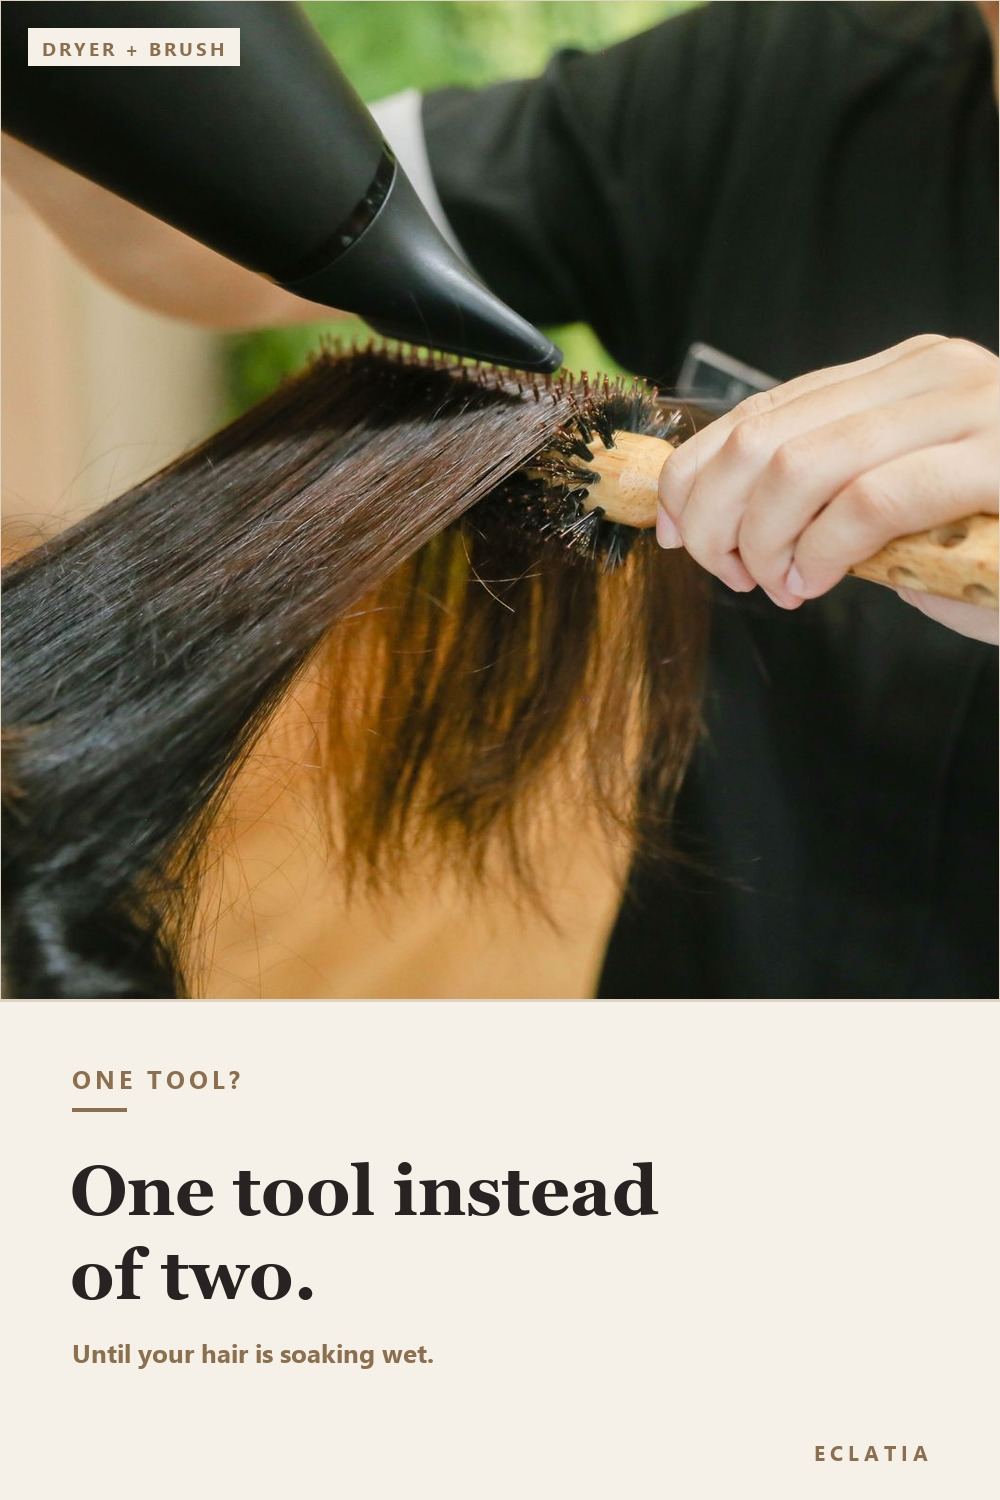
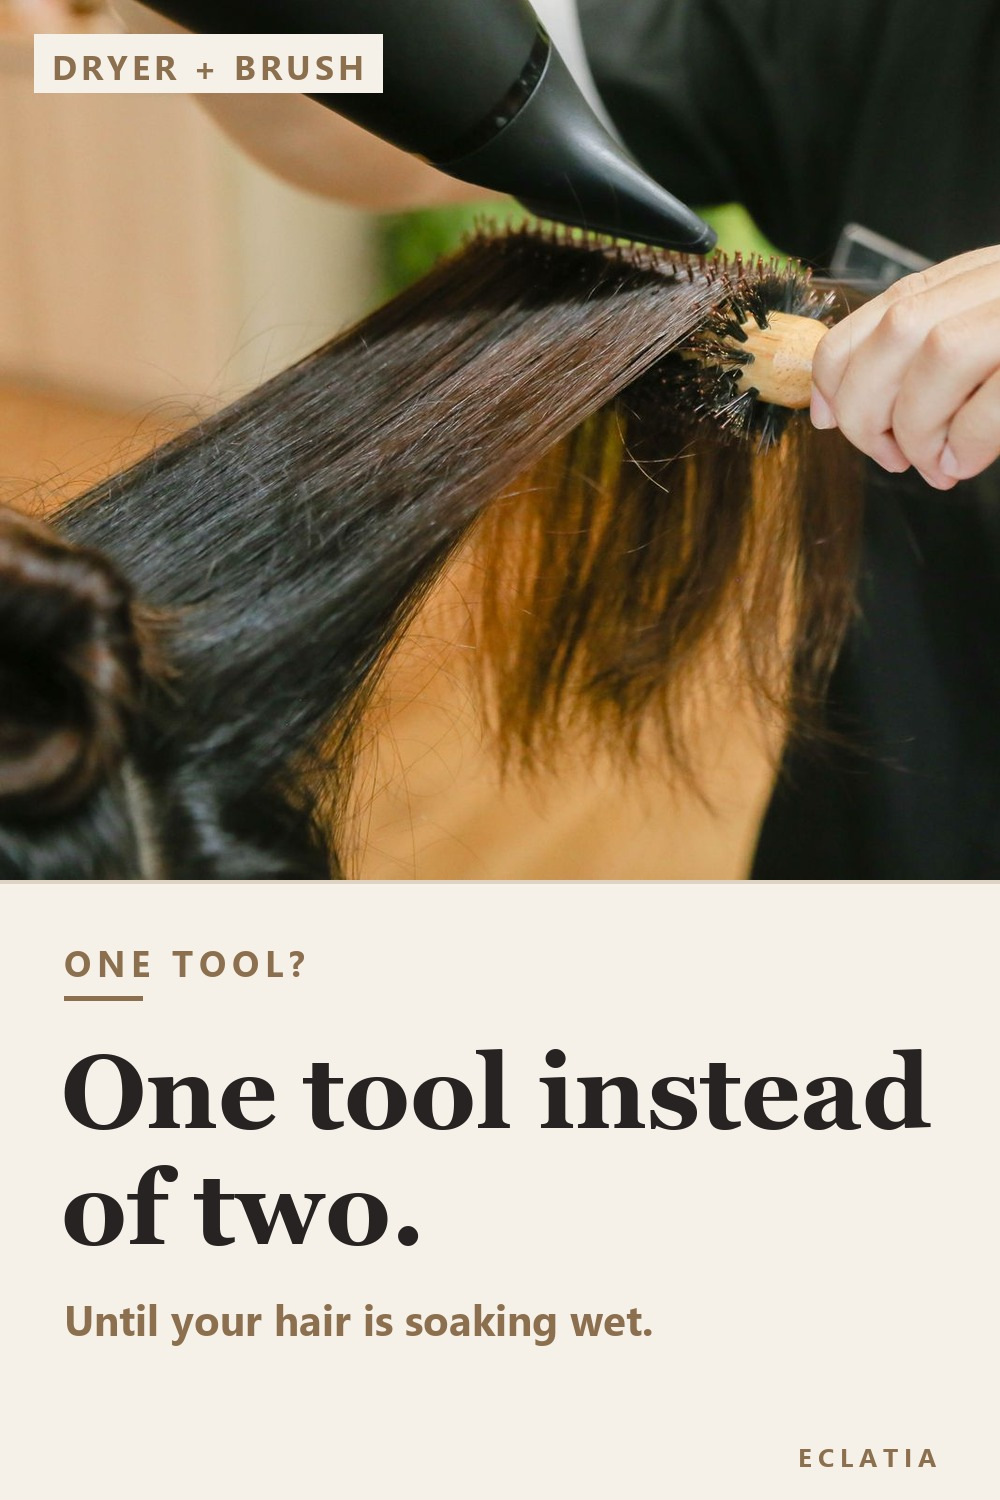
pin(P25): theme creme texte geant + script charte unifie

diff --git a/scripts/make_pins_editorial.py b/scripts/make_pins_editorial.py
@@ -1,0 +1,131 @@
+"""Charte des pins "editoriaux" : photo reelle en haut, panneau texte lisible en bas.
+
+Deux themes, meme grille :
+  creme - fond crème, Georgia Bold, kicker brun   (charte historique)
+  dark  - fond vert profond, Segoe Bold, kicker or (variante "bold")
+
+Regle nee du constat du 13/11 : l'ancienne charte composait son titre entre 25 et
+70 px sur un canvas de 1000 px. A la taille d'affichage du fil Pinterest (~236 px)
+cela donne 6 a 16 px, donc illisible. Ici le titre est calibre entre 86 et 140 px,
+le chip fait 34 px, le kicker 36 px.
+
+Photos : Pexels, licence libre, aucun logo de marque lisible.
+
+Entree (dossier temporaire) :
+  pex-3865608.jpg   femme versant une huile doree dans sa paume
+  pex-10028673.jpg  brosse ronde + sechoir dans des cheveux bruns
+
+Sortie : docs/contenus-a-valider/visuels/hair/pin-Pxx.jpg (+ .png)
+
+Usage (depuis la racine guide-beaute) :
+    python scripts/make_pins_editorial.py
+"""
+import os
+
+from PIL import Image, ImageDraw, ImageFont
+
+from make_pins_hair import crop_fill
+from make_pins_body_oil import ACCENT, CREAM, INK, LINE, SEGOE_B, spaced
+
+BASE = os.path.join("docs", "contenus-a-valider", "visuels", "hair")
+TMP = os.path.join(os.environ["LOCALAPPDATA"], "Temp", "opencode")
+GEORGIA_B = r"C:\Windows\Fonts\georgiab.ttf"
+
+W, H = 1000, 1500
+PHOTO_H = 880
+
+GOLD = (205, 172, 124)
+FOREST = (32, 58, 45)
+
+THEMES = {
+    "creme": dict(bg=CREAM, title=INK, accent=ACCENT, kicker=ACCENT, font=GEORGIA_B),
+    "dark": dict(bg=FOREST, title=CREAM, accent=GOLD, kicker=GOLD, font=SEGOE_B),
+}
+
+
+def chip(d, xy, text, font):
+    x, y = xy
+    tw = sum(d.textlength(c, font=font) + 4 for c in text) - 4
+    pad_x, pad_y = 18, 12
+    d.rectangle([x, y, x + tw + 2 * pad_x, y + font.size + 2 * pad_y], fill=CREAM)
+    spaced(d, (x + pad_x, y + pad_y - 3), text, font, ACCENT, 4)
+
+
+def fit(font_path, d, lines, max_w, start, minimum):
+    for size in range(start, minimum - 1, -2):
+        f = ImageFont.truetype(font_path, size)
+        if all(d.textlength(l, font=f) <= max_w for l in lines):
+            return f, size
+    return ImageFont.truetype(font_path, minimum), minimum
+
+
+def signature(d, fill):
+    fs = ImageFont.truetype(SEGOE_B, 26)
+    label = "ECLATIA"
+    tw = sum(d.textlength(c, font=fs) + 6 for c in label) - 6
+    spaced(d, (W - 64 - tw, H - 62), label, fs, fill, 6)
+
+
+def compose(pin):
+    t = THEMES[pin["theme"]]
+    im = Image.open(os.path.join(TMP, pin["src"])).convert("RGB")
+
+    if "box" in pin:
+        # recadrage explicite en pixels de la photo source, puis remise a l'echelle
+        photo = im.crop(pin["box"]).resize((W, PHOTO_H), Image.LANCZOS)
+    else:
+        photo = crop_fill(im, W, PHOTO_H, pin.get("cx", 0.5), pin.get("cy", 0.5))
+
+    canvas = Image.new("RGB", (W, H), t["bg"])
+    canvas.paste(photo, (0, 0))
+    d = ImageDraw.Draw(canvas)
+
+    chip(d, (34, 34), pin["chip"], ImageFont.truetype(SEGOE_B, 34))
+
+    d.rectangle([0, PHOTO_H, W, H], fill=t["bg"])
+    d.rectangle([0, PHOTO_H, W, PHOTO_H + 3],
+                fill=GOLD if pin["theme"] == "dark" else LINE)
+
+    x = 64
+    spaced(d, (x, PHOTO_H + 58), pin["kicker"], ImageFont.truetype(SEGOE_B, 36), t["kicker"], 6)
+    if pin["theme"] == "creme":
+        d.rectangle([x, PHOTO_H + 116, x + 78, PHOTO_H + 120], fill=ACCENT)
+
+    f, size = fit(t["font"], d, pin["lines"], W - 2 * x, start=140, minimum=86)
+    y = PHOTO_H + (152 if pin["theme"] == "creme" else 118)
+    for line in pin["lines"]:
+        d.text((x - 3, y), line, font=f, fill=t["title"])
+        y += round(size * 1.12)
+
+    d.text((x, y + (26 if pin["theme"] == "creme" else 30)), pin["sub"],
+           font=ImageFont.truetype(SEGOE_B, 42), fill=t["accent"])
+    signature(d, t["accent"])
+
+    jpg = os.path.join(BASE, f"pin-{pin['code']}.jpg")
+    canvas.save(jpg, quality=92, optimize=True)
+    if pin.get("png", True):
+        canvas.save(os.path.join(BASE, f"pin-{pin['code']}.png"), optimize=True)
+    print(f"{pin['code']:>3} {pin['theme']:<5} titre {size} px  {os.path.getsize(jpg) // 1024} Ko")
+
+
+NATURIUM = dict(src="pex-3865608.jpg", chip="OIL BODY WASH", kicker="OIL-TO-LATHER",
+                lines=["It looks like oil.", "It still cleans."],
+                sub="Surfactants included.", cx=0.5, cy=0.54)
+
+REVLON_ONE_STEP = dict(src="pex-10028673.jpg", chip="DRYER + BRUSH", kicker="ONE TOOL?",
+                       lines=["One tool instead", "of two."],
+                       sub="Until your hair is soaking wet.",
+                       # recadrage qui sort le visage de la coiffeuse (haut-droite)
+                       # du cadre et garde le sechoir, la brosse et la main.
+                       box=(112, 127, 1180, 1067))
+
+PINS = [
+    dict(NATURIUM, code="P24", theme="dark"),
+    dict(NATURIUM, code="P24-creme", theme="creme", png=False),
+    dict(REVLON_ONE_STEP, code="P25", theme="creme"),
+]
+
+
+if __name__ == "__main__":
+    for p in PINS:
+        compose(p)

diff --git a/docs/contenus-a-valider/pins/P25-one-step-a-publier.md b/docs/contenus-a-valider/pins/P25-one-step-a-publier.md
@@ -40,7 +40,16 @@
 
 Photo Pexels 10028673 (licence Pexels), recadrée 2:3. Une brosse ronde en bois et un
 sèche-cheveux noir dans des cheveux bruns : les **deux outils** que le one-step remplace sont
-visibles, les mains sont réelles, aucune marque lisible.
+visibles, les mains sont réelles, aucune marque lisible. Composition par
+`scripts/make_pins_editorial.py`.
+
+Le recadrage est calé pour **sortir le visage de la coiffeuse** du cadre (il apparaissait au
+ras du menton sur la première version, ce qui donnait une image maladroite).
+
+**Charte : thème crème à texte géant.** Titre composé à **104 px** (contre 25–70 px sur
+l'ancienne charte), chip à 34 px, kicker à 36 px. C'est la variante claire de la charte
+appliquée à P24 en version verte : deux pins consécutifs, deux couleurs, même lisibilité.
+Cela permet de comparer crème et vert sur deux pins publiés à un jour d'intervalle.
 
 **Point d'honnêteté :** la photo ne montre **pas** un one-step (il n'en existe pas en photo
 libre). Elle montre les deux outils, et le texte dit ce que fait l'appareil. Le chip

diff --git a/docs/contenus-a-valider/pins/P24-naturium-a-publier.md b/docs/contenus-a-valider/pins/P24-naturium-a-publier.md
@@ -39,7 +39,7 @@
 
 Photo Pexels **3865608** (licence Pexels, attribution non obligatoire), recadrée 2:3. Une
 femme verse une huile dorée d'un flacon ambré dans sa paume ouverte. Mains naturelles,
-anatomie correcte, aucun logo lisible. Composition par `scripts/make_pin_p24_variants.py`.
+anatomie correcte, aucun logo lisible. Composition par `scripts/make_pins_editorial.py`.
 
 **Point d'honnêteté :** le flacon de la photo n'est pas le Naturium. Le pin illustre le geste
 (oil-to-lather) et le texte parle de la formule, pas du packaging. La page précise déjà
